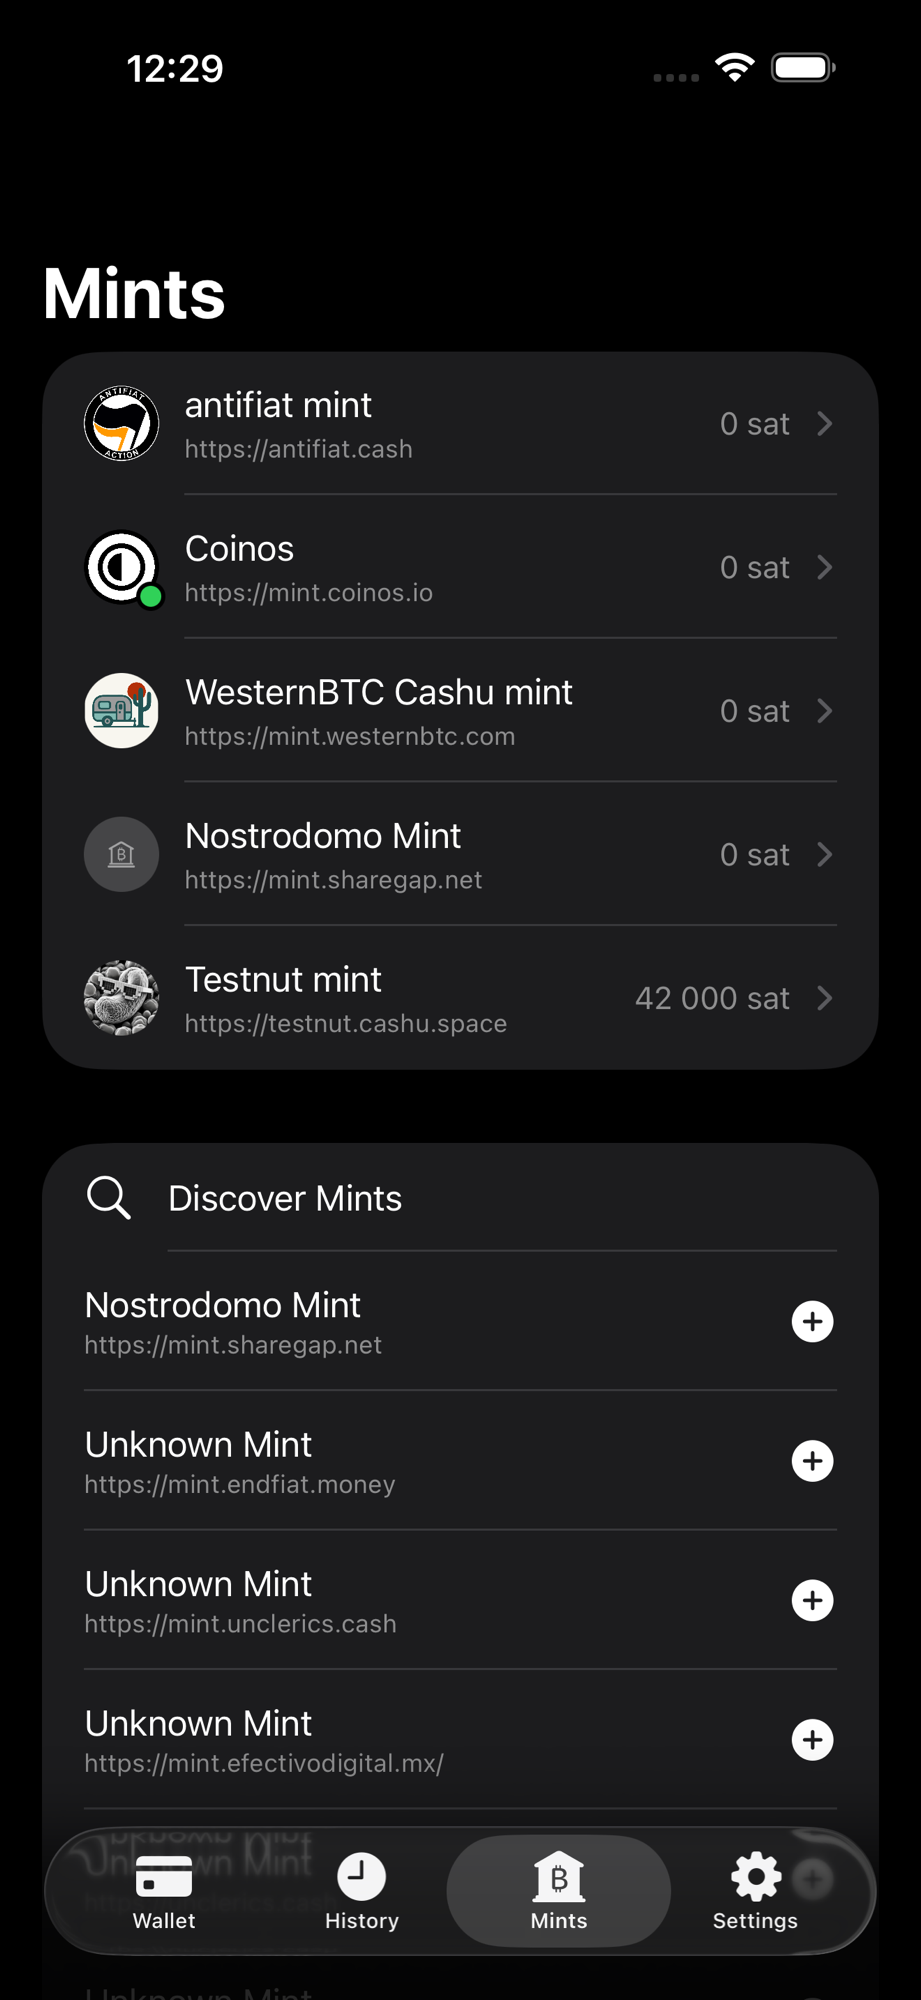
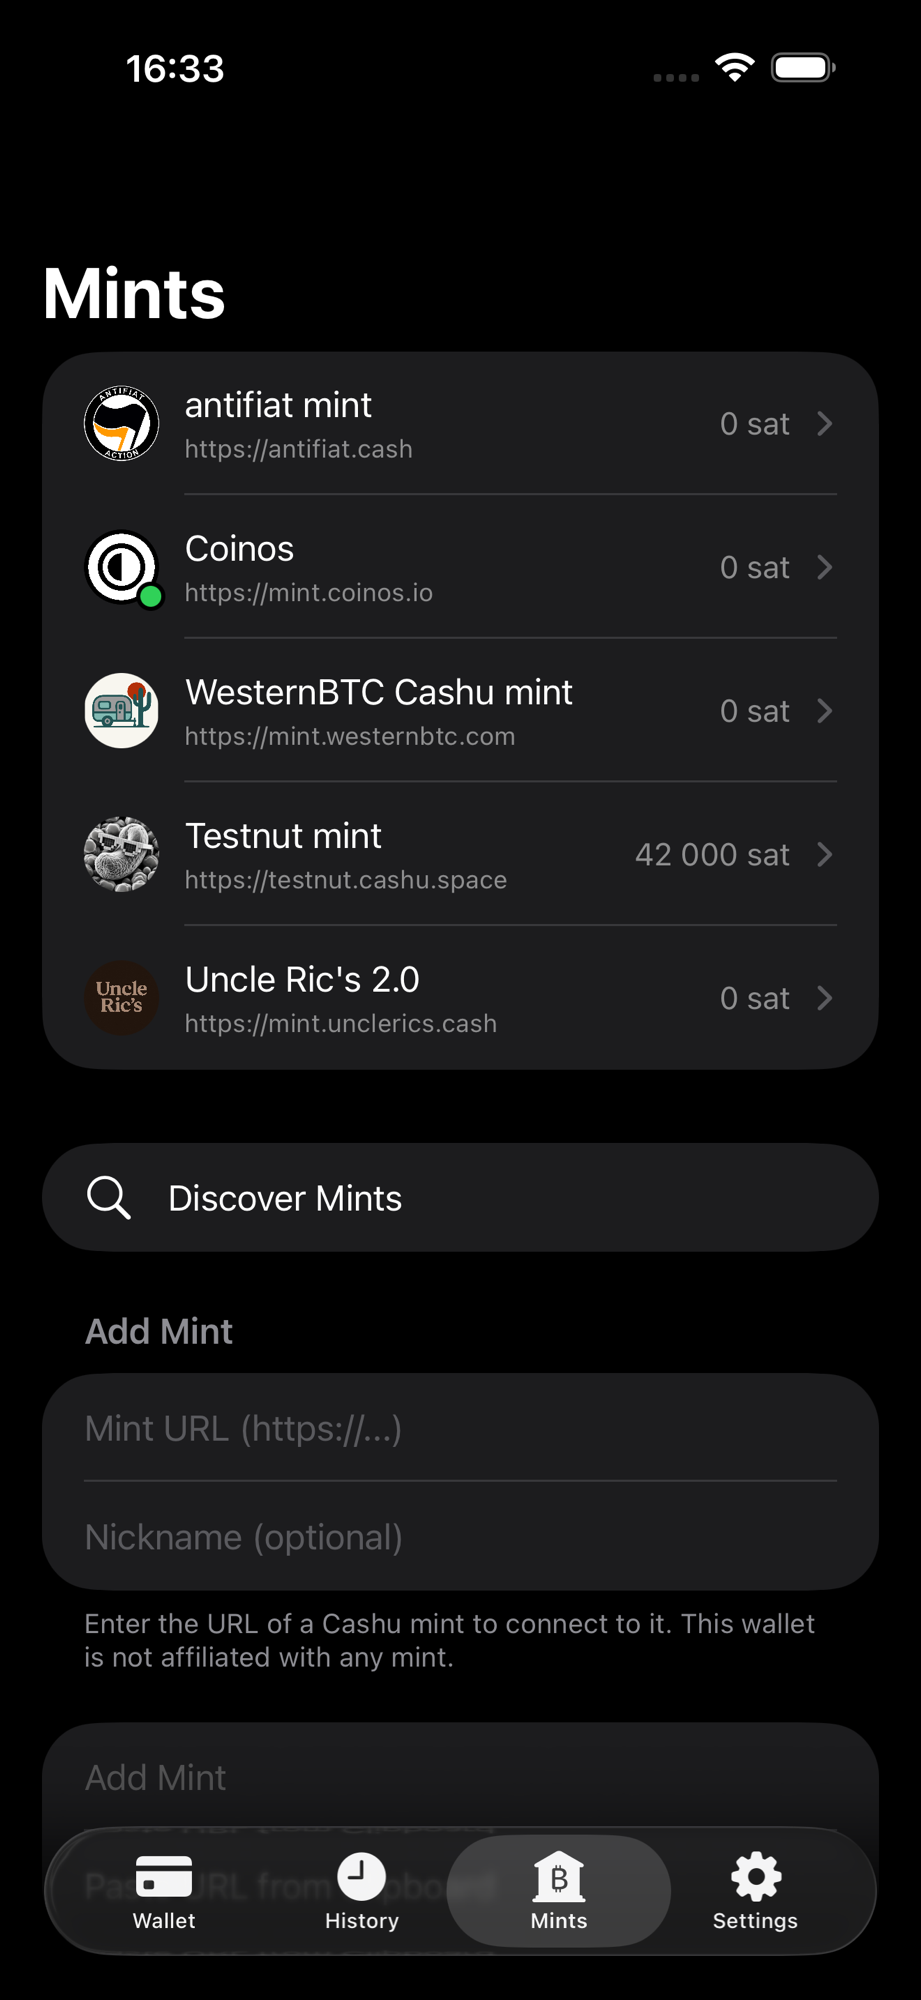
Drop "tokens" sitewide, swap mints screenshot, add CustodyComparison
Replaces every user-facing instance of "tokens" with "ecash"
across src/lib/config.tsx (9 strings), PRODUCT.md (5 edits),
and DESIGN.md (2 edits). Internal CSS-variable references to
"design tokens" stay since that's a term of art. Two stray
em dashes in feature/bento copy also cleaned up per the brand
em-dash ban.

Swaps the left-hero phone screenshot (mints) to the newer
capture showing Uncle Ric's 2.0 plus the Add Mint form,
preserving the path so no code changes are needed.

Adds src/components/illustrations/custody-comparison.tsx, a
self-contained SVG + framer-motion component:

- Two horizontal lanes (CASHU.ME, CUSTODIAL).
- A lilac packet travels left-to-right on each lane and loops
  on a slow cadence.
- Each lane has a mint/bank checkpoint marked by paired vertical
  hairlines with a mono label above.
- After the checkpoint, the ecash lane reveals a single
  "✓ VALID" lilac tag plus "Mint sees nothing else." caption.
- The custodial lane reveals four mono metadata chips
  (ID 0x42a8…, TO @user, $50.00, 10:42:31) with a 180ms
  stagger plus "Custodian sees all of it." caption.
- Honors prefers-reduced-motion: skips the travel, jumps to
  end state.

Wires the illustration into bento.tsx via an `id` field on
siteConfig.bento[0] = "custody-comparison". The other two
bento cards continue to render their <img>.

diff --git a/src/components/illustrations/custody-comparison.tsx b/src/components/illustrations/custody-comparison.tsx
@@ -1,0 +1,191 @@
+"use client";
+
+import { easeOutCubic } from "@/lib/animation";
+import { cn } from "@/lib/utils";
+import {
+  motion,
+  useInView,
+  useReducedMotion,
+  type Variants,
+} from "framer-motion";
+import { useRef } from "react";
+
+const CUSTODIAL_FIELDS = [
+  "ID 0x42a8…",
+  "TO @alice",
+  "$50.00",
+  "10:42:31",
+];
+
+interface LaneProps {
+  active: boolean;
+  reduceMotion: boolean;
+  identifier: string;
+  checkpoint: string;
+  packetDelay: number;
+  children: React.ReactNode;
+}
+
+function Lane({
+  active,
+  reduceMotion,
+  identifier,
+  checkpoint,
+  packetDelay,
+  children,
+}: LaneProps) {
+  return (
+    <div className="grid grid-cols-[auto_1fr_auto] items-center gap-4 sm:gap-6">
+      {/* Left identifier tile */}
+      <div className="flex items-center gap-3">
+        <div className="size-9 border border-foreground/20 bg-foreground/[0.04]" />
+        <span className="hidden text-label text-muted-foreground sm:inline">
+          {identifier}
+        </span>
+      </div>
+
+      {/* Rail + checkpoint + packet */}
+      <div className="relative flex h-9 items-center">
+        {/* The rail */}
+        <div className="absolute inset-x-0 top-1/2 h-px -translate-y-1/2 bg-foreground/15" />
+
+        {/* Checkpoint band (vertically centered, ~38% across) */}
+        <div className="absolute left-[34%] top-0 flex h-full w-[18%] items-center justify-center sm:w-[14%]">
+          <div className="absolute inset-y-0 left-0 w-px bg-foreground/25" />
+          <div className="absolute inset-y-0 right-0 w-px bg-foreground/25" />
+          <span className="absolute -top-5 text-label text-muted-foreground">
+            {checkpoint}
+          </span>
+        </div>
+
+        {/* The packet (lilac dot travelling left → right, looping) */}
+        <motion.div
+          aria-hidden
+          className="absolute top-1/2 size-2 -translate-y-1/2 rounded-full bg-primary"
+          initial={{ left: "0%", opacity: 0 }}
+          animate={
+            active
+              ? reduceMotion
+                ? { left: "100%", opacity: 1 }
+                : {
+                    left: ["0%", "100%"],
+                    opacity: [0, 1, 1, 1, 0],
+                  }
+              : { left: "0%", opacity: 0 }
+          }
+          transition={
+            reduceMotion
+              ? { duration: 0 }
+              : {
+                  duration: 2.6,
+                  delay: packetDelay,
+                  repeat: Infinity,
+                  repeatDelay: 1.8,
+                  ease: easeOutCubic,
+                  times: [0, 0.05, 0.45, 0.95, 1],
+                }
+          }
+        />
+      </div>
+
+      {/* Output zone */}
+      <div className="min-w-[160px] sm:min-w-[200px]">{children}</div>
+    </div>
+  );
+}
+
+const containerVariants: Variants = {
+  hidden: { opacity: 0 },
+  visible: {
+    opacity: 1,
+    transition: { staggerChildren: 0.18, delayChildren: 0.2 },
+  },
+};
+
+const itemVariants: Variants = {
+  hidden: { opacity: 0, y: 6 },
+  visible: { opacity: 1, y: 0, transition: { duration: 0.5, ease: easeOutCubic } },
+};
+
+export function CustodyComparison() {
+  const ref = useRef<HTMLDivElement>(null);
+  const inView = useInView(ref, { once: true, margin: "-15%" });
+  const reduceMotion = useReducedMotion() ?? false;
+
+  return (
+    <div
+      ref={ref}
+      className="w-full max-w-[640px] py-2 sm:py-4"
+      aria-label="How custodial wallets see your transactions vs how Cashu mints don't."
+    >
+      <div className="flex flex-col gap-10 sm:gap-14">
+        {/* Ecash lane */}
+        <Lane
+          active={inView}
+          reduceMotion={reduceMotion}
+          identifier="CASHU.ME"
+          checkpoint="MINT"
+          packetDelay={0.6}
+        >
+          <motion.div
+            initial="hidden"
+            animate={inView ? "visible" : "hidden"}
+            variants={containerVariants}
+            className="flex flex-col items-start gap-2"
+          >
+            <motion.span
+              variants={itemVariants}
+              className={cn(
+                "inline-flex items-center border border-primary/40 bg-primary/[0.06] px-2 py-1 text-label text-primary"
+              )}
+            >
+              ✓ VALID
+            </motion.span>
+            <motion.span
+              variants={itemVariants}
+              className="text-label text-muted-foreground"
+            >
+              Mint sees nothing else.
+            </motion.span>
+          </motion.div>
+        </Lane>
+
+        {/* Hairline divider */}
+        <div className="h-px w-full bg-foreground/10" />
+
+        {/* Custodial lane */}
+        <Lane
+          active={inView}
+          reduceMotion={reduceMotion}
+          identifier="CUSTODIAL"
+          checkpoint="BANK"
+          packetDelay={0.6}
+        >
+          <motion.div
+            initial="hidden"
+            animate={inView ? "visible" : "hidden"}
+            variants={containerVariants}
+            transition={{ delayChildren: 1.6 }}
+            className="flex flex-col items-start gap-1.5"
+          >
+            {CUSTODIAL_FIELDS.map((field) => (
+              <motion.span
+                key={field}
+                variants={itemVariants}
+                className="inline-flex items-center border border-foreground/20 bg-foreground/[0.03] px-2 py-1 text-label text-foreground/80"
+              >
+                {field}
+              </motion.span>
+            ))}
+            <motion.span
+              variants={itemVariants}
+              className="mt-1 text-label text-foreground/55"
+            >
+              Custodian sees all of it.
+            </motion.span>
+          </motion.div>
+        </Lane>
+      </div>
+    </div>
+  );
+}

diff --git a/src/components/sections/bento.tsx b/src/components/sections/bento.tsx
@@ -1,6 +1,7 @@
 /* eslint-disable @next/next/no-img-element */
 "use client";
 
+import { CustodyComparison } from "@/components/illustrations/custody-comparison";
 import { Section } from "@/components/section";
 import { easeInOutCubic } from "@/lib/animation";
 import { siteConfig } from "@/lib/config";
@@ -78,15 +79,19 @@ export function BentoGrid() {
                 </p>
               </div>
               <div className="mt-6 flex justify-center">
-                <img
-                  src={item.imageSrc}
-                  alt={item.imageAlt}
-                  className={cn(
-                    "h-64 w-auto select-none object-contain object-top transition-transform duration-500 group-hover:-translate-y-2 sm:h-80",
-                    item.fullWidth && "sm:h-96"
-                  )}
-                  draggable={false}
-                />
+                {item.id === "custody-comparison" ? (
+                  <CustodyComparison />
+                ) : (
+                  <img
+                    src={item.imageSrc}
+                    alt={item.imageAlt}
+                    className={cn(
+                      "h-64 w-auto select-none object-contain object-top transition-transform duration-500 group-hover:-translate-y-2 sm:h-80",
+                      item.fullWidth && "sm:h-96"
+                    )}
+                    draggable={false}
+                  />
+                )}
               </div>
             </motion.div>
           );

diff --git a/src/lib/config.tsx b/src/lib/config.tsx
@@ -4,7 +4,7 @@ export const siteConfig = {
   name: "cashu.me",
   description: "The native Cashu wallet.",
   tagline:
-    "cashu.me is the first ecash wallet, now native on iPhone and Android and runs in any browser. Hold bearer tokens on your device, send with a tap, redeem to any Lightning address. No account.",
+    "cashu.me is the first ecash wallet, now native on iPhone and Android and runs in any browser. Hold bearer ecash on your device, send with a tap, redeem to any Lightning address. No account.",
   url: "https://cashu.me",
   cta: "Open wallet",
   keywords: [
@@ -30,7 +30,7 @@ export const siteConfig = {
     {
       title: "Bearer ecash, in your pocket.",
       description:
-        "Tokens live on your device. No account, no login, no balance tied to your name. Lose the device, lose the cash — like the physical version.",
+        "Your ecash lives on your device. No account, no login, no balance tied to your name. Lose the device, lose the cash, like the physical version.",
       imageSrc: "/images/iphone-placeholder.png",
       direction: "ltr" as const,
     },
@@ -44,16 +44,17 @@ export const siteConfig = {
     {
       title: "Your mints, your rules.",
       description:
-        "Pick the mints you trust. Hold tokens from many at once. Swap between operators in a single Lightning hop, without asking.",
+        "Pick the mints you trust. Hold ecash from many at once. Swap between operators in a single Lightning hop, without asking.",
       imageSrc: "/images/iphone-placeholder.png",
       direction: "ltr" as const,
     },
   ],
   bento: [
     {
+      id: "custody-comparison",
       title: "Custodial wallets see everything.",
       content:
-        "Every send, every receive, every contact — tied to a single account in someone else's database. A change of policy is a change of access.",
+        "Every send, every receive, every contact, tied to a single account in someone else's database. A change of policy is a change of access.",
       imageSrc: "/images/iphone-placeholder.png",
       imageAlt: "Cluttered wallet UI showing transaction history",
       fullWidth: true,
@@ -61,9 +62,9 @@ export const siteConfig = {
     {
       title: "Cashu mints can't link your transactions.",
       content:
-        "Blinded signatures mean the mint signs tokens it cannot tie to a holder. Bearer cash, restored on the internet.",
+        "Blinded signatures mean the mint signs ecash it cannot tie to a holder. Bearer cash, restored on the internet.",
       imageSrc: "/images/iphone-placeholder.png",
-      imageAlt: "Cashu wallet showing blinded token",
+      imageAlt: "Cashu wallet showing blinded ecash",
       fullWidth: false,
     },
     {
@@ -79,22 +80,22 @@ export const siteConfig = {
     {
       question: "Is this custodial?",
       answer:
-        "Yes. The mint holds the underlying bitcoin. What you hold is bearer tokens redeemable to any Lightning address at any time. The mint cannot freeze your withdrawal address, but it can go offline. Treat every mint the way you would treat a custodian.",
+        "Yes. The mint holds the underlying bitcoin. What you hold is bearer ecash redeemable to any Lightning address at any time. The mint cannot freeze your withdrawal address, but it can go offline. Treat every mint the way you would treat a custodian.",
     },
     {
       question: "What if a mint disappears?",
       answer:
-        "You lose the tokens minted there. The protocol does not solve this. Mitigate by choosing mints with known operators, holding small amounts per mint, and redeeming regularly to a Lightning wallet you control.",
+        "You lose the ecash minted there. The protocol does not solve this. Mitigate by choosing mints with known operators, holding small amounts per mint, and redeeming regularly to a Lightning wallet you control.",
     },
     {
       question: "How is this different from Wallet of Satoshi?",
       answer:
-        "Wallet of Satoshi holds a balance in a database tied to your account and can rate-limit, suspend, or geofence you. A Cashu mint holds bitcoin but issues you blinded bearer tokens. You can swap to another mint, send tokens peer-to-peer, or withdraw to any Lightning address, without permission.",
+        "Wallet of Satoshi holds a balance in a database tied to your account and can rate-limit, suspend, or geofence you. A Cashu mint holds bitcoin but issues you blinded bearer ecash. You can swap to another mint, send ecash peer-to-peer, or withdraw to any Lightning address, without permission.",
     },
     {
       question: "Can I back it up?",
       answer:
-        "Yes. cashu.me exports your tokens and mint settings as an encrypted backup. Restore by importing on any device. Tokens are bearer instruments: possession of the backup means possession of the funds. Store accordingly.",
+        "Yes. cashu.me exports your ecash and mint settings as an encrypted backup. Restore by importing on any device. ecash is a bearer instrument: possession of the backup means possession of the funds. Store accordingly.",
     },
     {
       question: "Where can I read the protocol?",

diff --git a/PRODUCT.md b/PRODUCT.md
@@ -10,13 +10,13 @@ brand
 
 **Context on arrival**: Referral click from a friend, a tweet, or a podcast show-notes link. They're evaluating whether to spend 15 minutes installing and trying the wallet.
 
-**Job to be done**: Get the right mental model (custodial backing, bearer tokens, mint-agnostic, Lightning-native, no accounts, withdraw anytime) fast enough to decide *yes, I'll try this* before the tab gets closed.
+**Job to be done**: Get the right mental model (custodial backing, bearer ecash, mint-agnostic, Lightning-native, no accounts, withdraw anytime) fast enough to decide *yes, I'll try this* before the tab gets closed.
 
 ## Product Purpose
 
 cashu.me is the first Cashu ecash wallet, now native on iPhone and Android and also running in any browser with no install. The site exists to promote the app: give a Bitcoin-literate visitor a credible, fast answer to "what does cashu.me give me, and should I install it?"
 
-Success: a visitor leaves with the right mental model, bearer tokens on their device with unconditional exit to any Lightning address, and installs the wallet. Failure: they leave thinking they're locked in the way Wallet of Satoshi locks them in, or that the mint can freeze them specifically.
+Success: a visitor leaves with the right mental model, bearer ecash on their device with unconditional exit to any Lightning address, and installs the wallet. Failure: they leave thinking they're locked in the way Wallet of Satoshi locks them in, or that the mint can freeze them specifically.
 
 ## Brand Personality
 
@@ -30,7 +30,7 @@ Success: a visitor leaves with the right mental model, bearer tokens on their de
 
 What cashu.me must NOT look or feel like:
 
-1. **Neon-on-black crypto aesthetic** — electric neon on pitch black, 3D rendered logos, futurist UI. The training-data crypto reflex. Reads as memecoin or DeFi token, not as bearer cash.
+1. **Neon-on-black crypto aesthetic** — electric neon on pitch black, 3D rendered logos, futurist UI. The training-data crypto reflex. Reads as memecoin or DeFi project, not as bearer cash.
 2. **Consumer-fintech pastels** — Cash App, Venmo, Revolut. Soft pastels, friendly illustrations, gradient mascots. Reads as custodial app, undermines the bearer positioning.
 3. **Bank navy + gold institutional gravitas** — exactly the financial architecture Cashu is designed to route around. Wrong register entirely.
 4. **Web3 / DeFi maximalism** — dashboard-heavy, charts, glassmorphism, rainbow accents. Reads as speculation platform, not currency.
@@ -42,13 +42,13 @@ What cashu.me must NOT look or feel like:
 3. **Restraint is the voice.** Type and structure carry the page. When imagery enters, prefer one decisive moment over many decorative ones. The absence of imagery is not laziness, it is voice.
 4. **Editorial, not enterprise.** Section rhythm follows altitude.xyz / Klim-style specimen pages: big display, generous whitespace, asymmetric grids. Never centered card grids with icon-title-subtitle templates.
 5. **Bitcoin-literacy assumed.** "Lightning Network", "BTC", "bearer instrument", "custodial" are not jargon to define. The audience already knows them. This shortens copy and signals respect.
-6. **Honest about custody, free to leave.** Cashu is custodial: mints hold the underlying Bitcoin. The site says so plainly. The value proposition is not "no custodian" (false), it's "you hold bearer tokens that withdraw to any Lightning address whenever you want, no permission, no notice." Candor about backing is more convincing than overclaiming.
+6. **Honest about custody, free to leave.** Cashu is custodial: mints hold the underlying Bitcoin. The site says so plainly. The value proposition is not "no custodian" (false), it's "you hold bearer ecash that withdraws to any Lightning address whenever you want, no permission, no notice." Candor about backing is more convincing than overclaiming.
 
 ## Accessibility & Inclusion
 
 - **WCAG 2.2 AA** for contrast, keyboard navigation, focus indicators.
 - **`prefers-reduced-motion`** respected: scroll-driven and entrance animations gracefully degrade to static states.
 - **Lilac accent** uses two tokens: `#B4A7F5` on dark surfaces (passes AA against `#0A0A0A`); `#7A66E8` on light surfaces. The lighter shade is reserved for non-text decoration on white because it fails AA against `#FFFFFF` for text use.
-- **Custodial-honesty rule**: copy must never claim "self-custodial" or "no custodian." Cashu is custodial; the right framing is bearer tokens plus unconditional exit. See Design Principle #6.
+- **Custodial-honesty rule**: copy must never claim "self-custodial" or "no custodian." Cashu is custodial; the right framing is bearer ecash plus unconditional exit. See Design Principle #6.
 - **Zoom**: layout survives 200% zoom without horizontal scroll.
 - **Text-wrap**: `balance` on headings, `pretty` on body for legibility under reflow.

diff --git a/DESIGN.md b/DESIGN.md
@@ -206,7 +206,7 @@ Do not recolor, restyle, or stretch the artwork. Do not place on top of imagery.
 
 ### Specimen Blocks
 
-Each pillar in the "What's different" section is paired with a specimen: a small typographic exhibit that demonstrates the property rather than illustrating it. Examples: a wrapped serialization of a blinded token, a stylized Lightning invoice fragment, a redemption arrow to a Lightning address. Mono, hairline-bordered, flat, with a `[N]` index mark in the top-left corner.
+Each pillar in the "What's different" section is paired with a specimen: a small typographic exhibit that demonstrates the property rather than illustrating it. Examples: a wrapped serialization of blinded ecash, a stylized Lightning invoice fragment, a redemption arrow to a Lightning address. Mono, hairline-bordered, flat, with a `[N]` index mark in the top-left corner.
 
 Specimen blocks are not cards. They are exhibits.
 
@@ -240,4 +240,4 @@ Native `<details>` / `<summary>`. Each item is separated by a 1px top hairline. 
 - **Don't** apply ambient shadows to flat surfaces. The Phone Placeholder shadow is the only exception, scoped to that component.
 - **Don't** ship a heading without `text-wrap: balance` or prose without `text-wrap: pretty`.
 - **Don't** redefine tokens at the call site. New utilities go through the `@theme inline` block in `globals.css`.
-- **Don't** claim "self-custodial" or "no custodian." Cashu is custodial: mints hold the underlying Bitcoin. The accurate framing is bearer tokens plus unconditional withdrawal to any Lightning address. Candor is the brand; overclaiming corrodes it.
+- **Don't** claim "self-custodial" or "no custodian." Cashu is custodial: mints hold the underlying Bitcoin. The accurate framing is bearer ecash plus unconditional withdrawal to any Lightning address. Candor is the brand; overclaiming corrodes it.